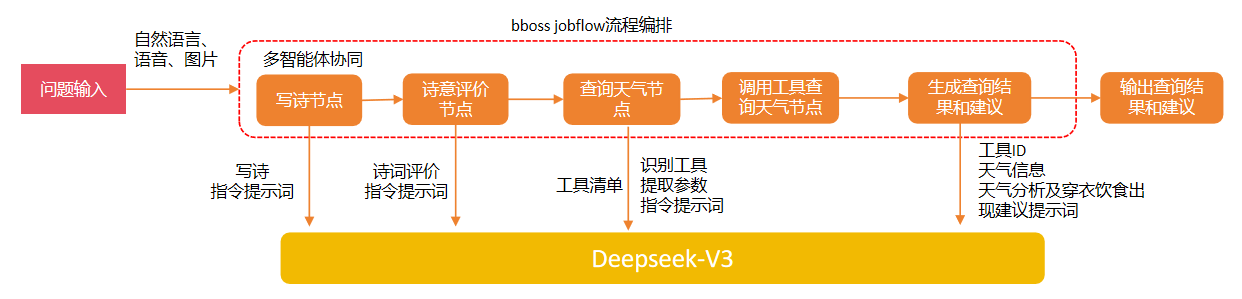
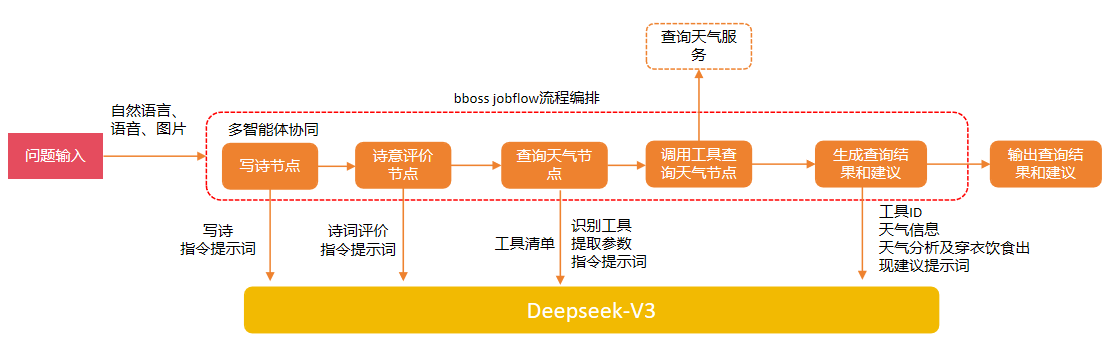
kerberos服务认证请求默认调整为post请求

diff --git a/docs/jobflow-deepseek-fuctioncall.md b/docs/jobflow-deepseek-fuctioncall.md
@@ -1,6 +1,6 @@
 # 多智能体协同：轻松搞定智能体工具调用
 
-在上篇文档中介绍了[通过bboss jobflow实现基于Deepseek的多智能体流程排功能](https://esdoc.bbossgroups.com/#/jobflow-deepseek)，本文在上文中案例基础上继续扩展流程功能，实现智能体工具调用功能：将用户问题和工具清单发送给 Deepseek，并由 Deepseek 匹配对应工具并提取参数，通过工具调用节点调用工具，最后通过生成查询结果和建议节点调用Deepseek分析工具调用结果数据，生成并输出最终问题答案。
+在上篇文档中介绍了[通过bboss jobflow实现基于Deepseek的多智能体流程排功能](https://esdoc.bbossgroups.com/#/jobflow-deepseek)，本文在上文中案例基础上继续扩展流程功能，实现智能体工具调用功能：将用户问题（本文对应查询天气问题）和工具清单发送给 Deepseek，由 Deepseek 推理匹配问题对应工具（本文为查询天气工具）,同时提取工具调用参数（本文对应要查询天气的城市名称），然后通过工具调用节点执行工具方法，查询相应城市的天气信息，最后通过多智能体协同流程节点【生成查询结果和建议】，将问题和城市的天气信息传给Deepseek进行分析推理，生成最终问题答案并输出。
 
 ![](images\workflow\jobworkflow-toolcall.png)
 
@@ -240,7 +240,7 @@ logger.info(deepseekMessage.getContent());
 ---
 ## 📌 4. 总结
 
-本文通过实际案例代码，详细地介绍了AI智能体工具调用功能：将用户问题和工具清单发送给 Deepseek，并由 Deepseek 匹配对应工具并提取参数，通过工具调用节点调用工具，最后通过生成查询结果和建议节点调用Deepseek分析工具调用结果数据，生成并输出最终问题答案。
+本文通过实际案例代码，详细地介绍了实现智能体工具调用功能：将用户查询杭州天气问题和工具清单发送给 Deepseek，由 Deepseek 推理匹配问题对应工具（本文为查询天气工具）,同时提取工具调用参数（查询天气的城市名称），然后通过工具调用节点执行工具方法，查询相应城市的天气信息，最后通过多智能体协同流程节点【生成查询结果和建议】，将问题和城市的天气信息传给Deepseek进行分析推理，生成最终问题答案并输出。
 
 | 步骤 | 目的 |
 |------|------|

diff --git a/docs/jobflow-customnode.md b/docs/jobflow-customnode.md
@@ -34,7 +34,7 @@ public interface JobFlowNodeFunction {
 
 ## **📌 三. 实现 `JobFlowNodeFunction` 接口**
 
-该接口是构建自定义任务节点的核心。你需要实现其中的五个关键方法：[init](file://C:\workspace\bbossgroups\bboss-elasticsearch\bboss-elasticsearch-rest\src\main\java\org\frameworkset\elasticsearch\bulk\BulkProcessor.java#L118-L144), `call`, [reset](file://C:\workspace\bbossgroups\bboss-elasticsearch\bboss-elasticsearch-rest\src\main\java\org\frameworkset\elasticsearch\boot\WrapperGetProperties.java#L38-L41), `release`, 和 [stop](file://C:\workspace\bbossgroups\bboss-elasticsearch\bboss-elasticsearch-rest\src\main\java\org\frameworkset\elasticsearch\bulk\BulkProcessor.java#L75-L99)。
+该接口是构建自定义任务节点的核心。你需要实现其中的五个关键方法：init, `call`, reset, `release`, 和 stop。
 
 ### ✅ 3.1 实现代码
 ```java
